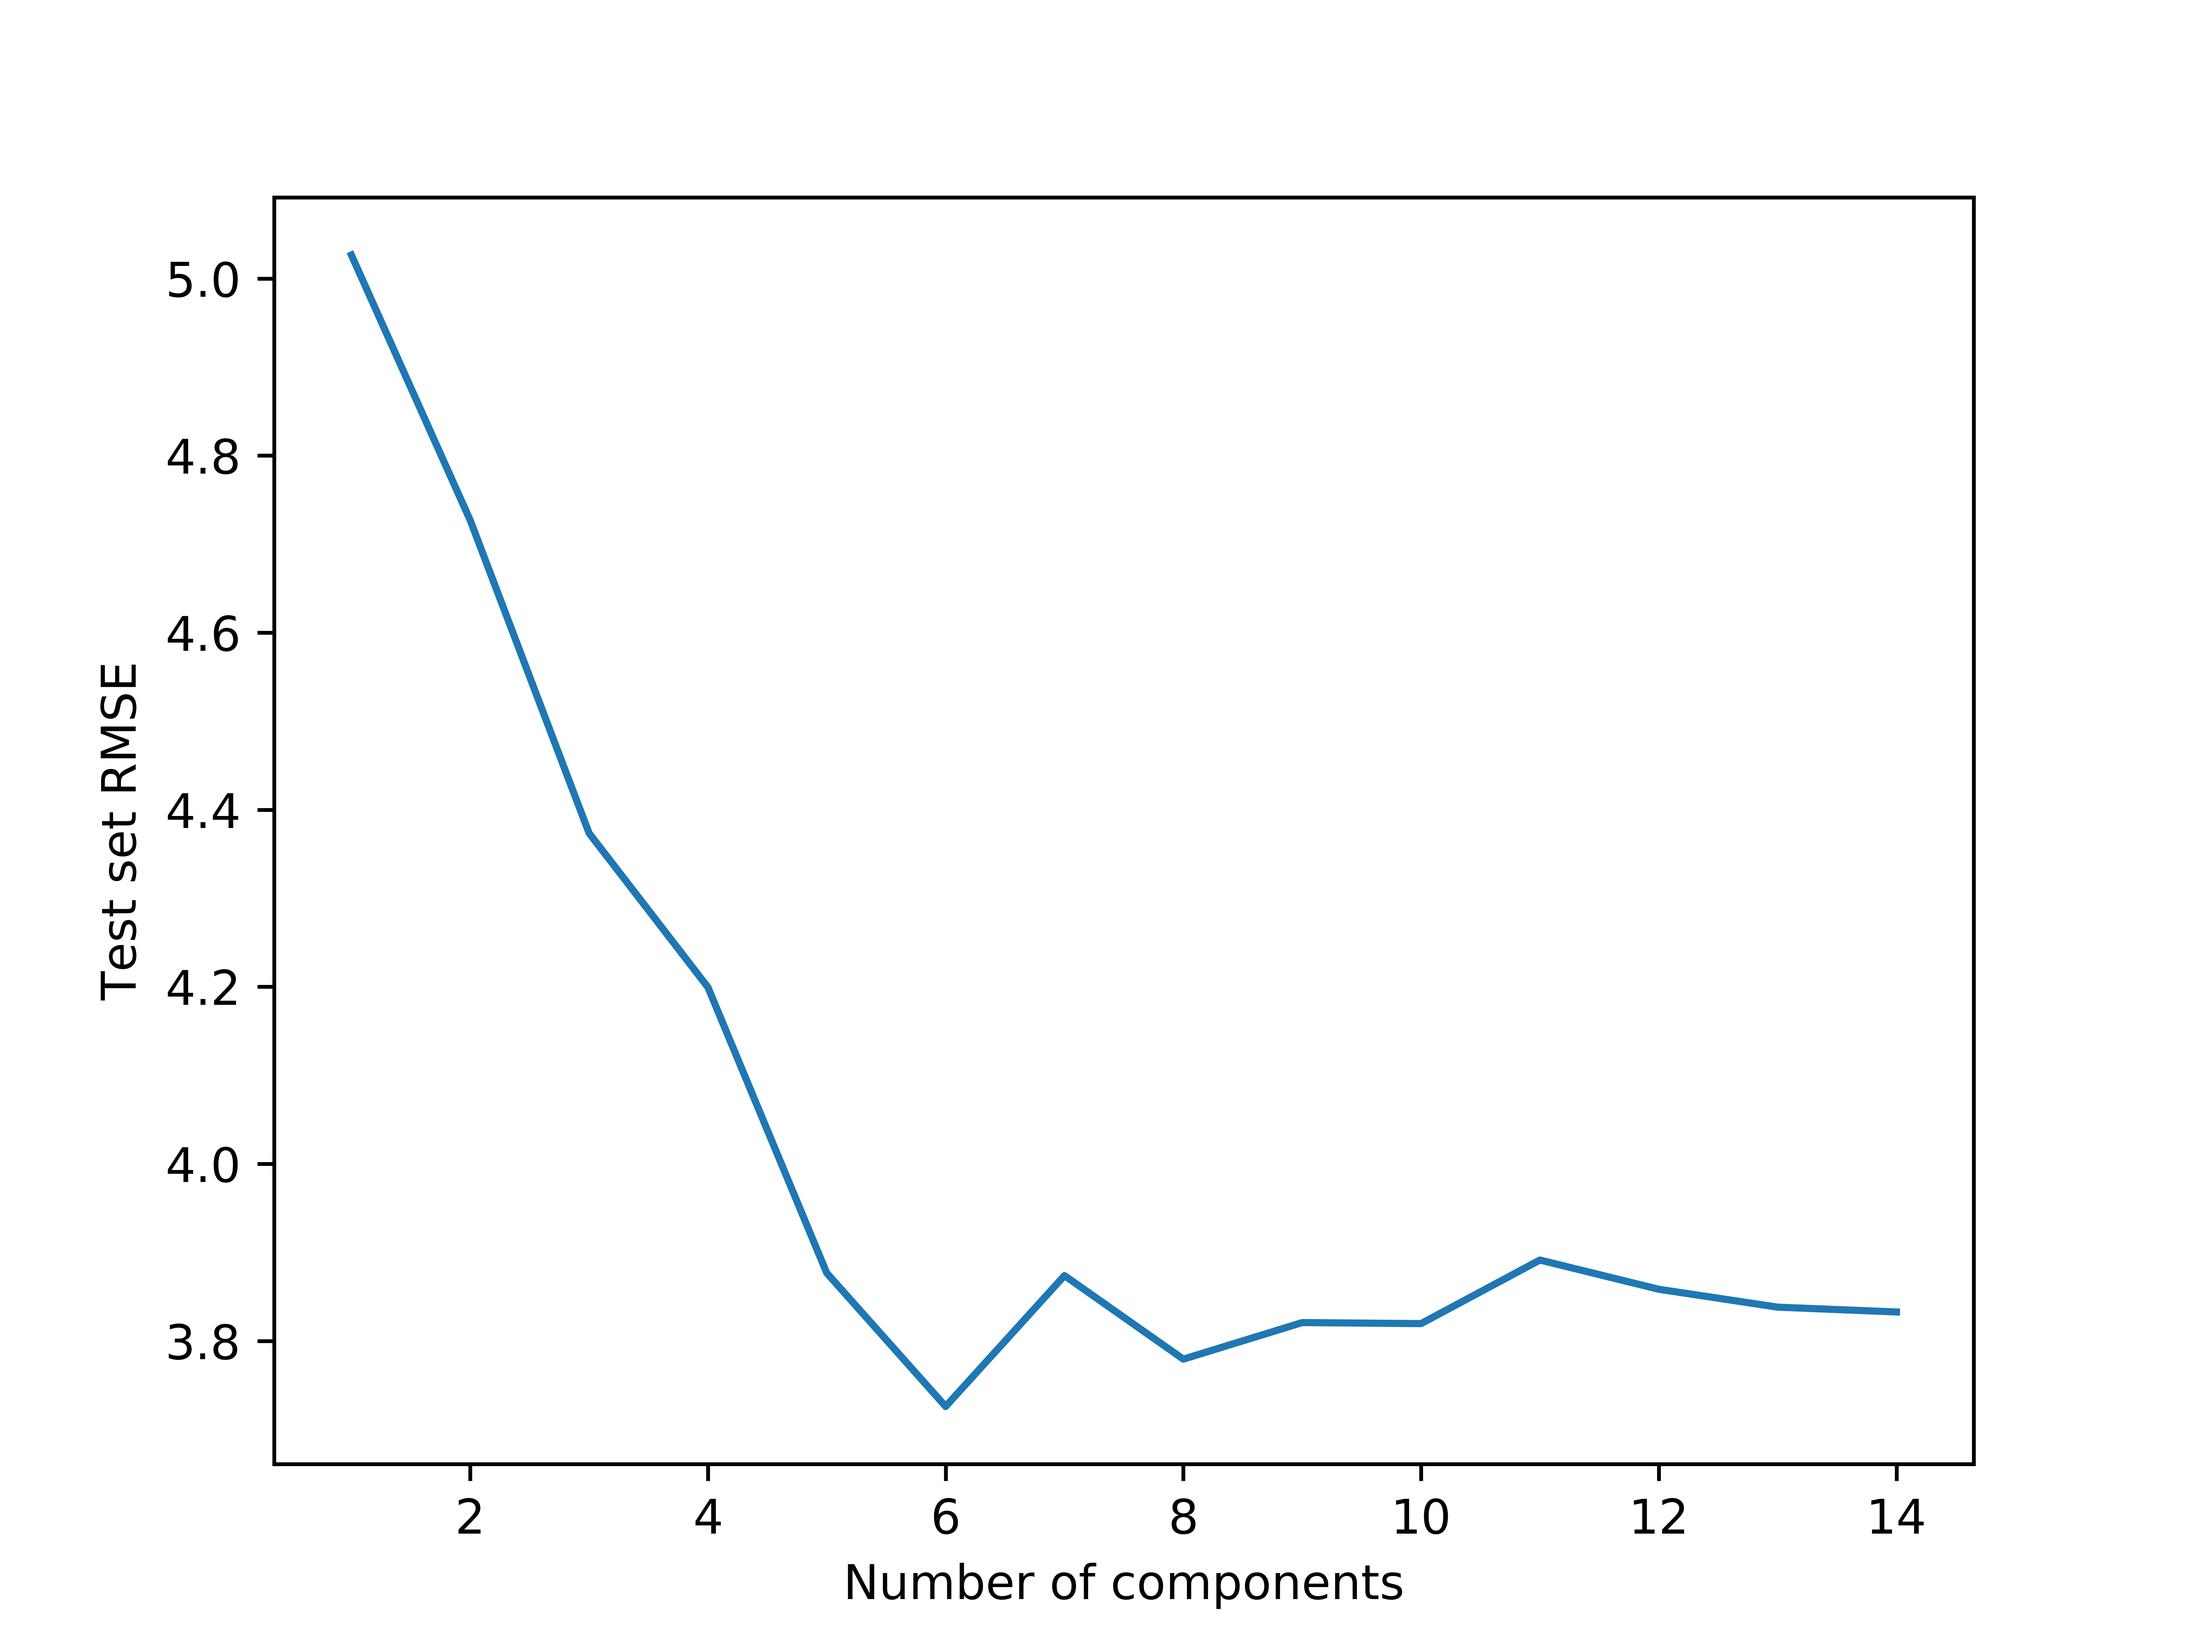
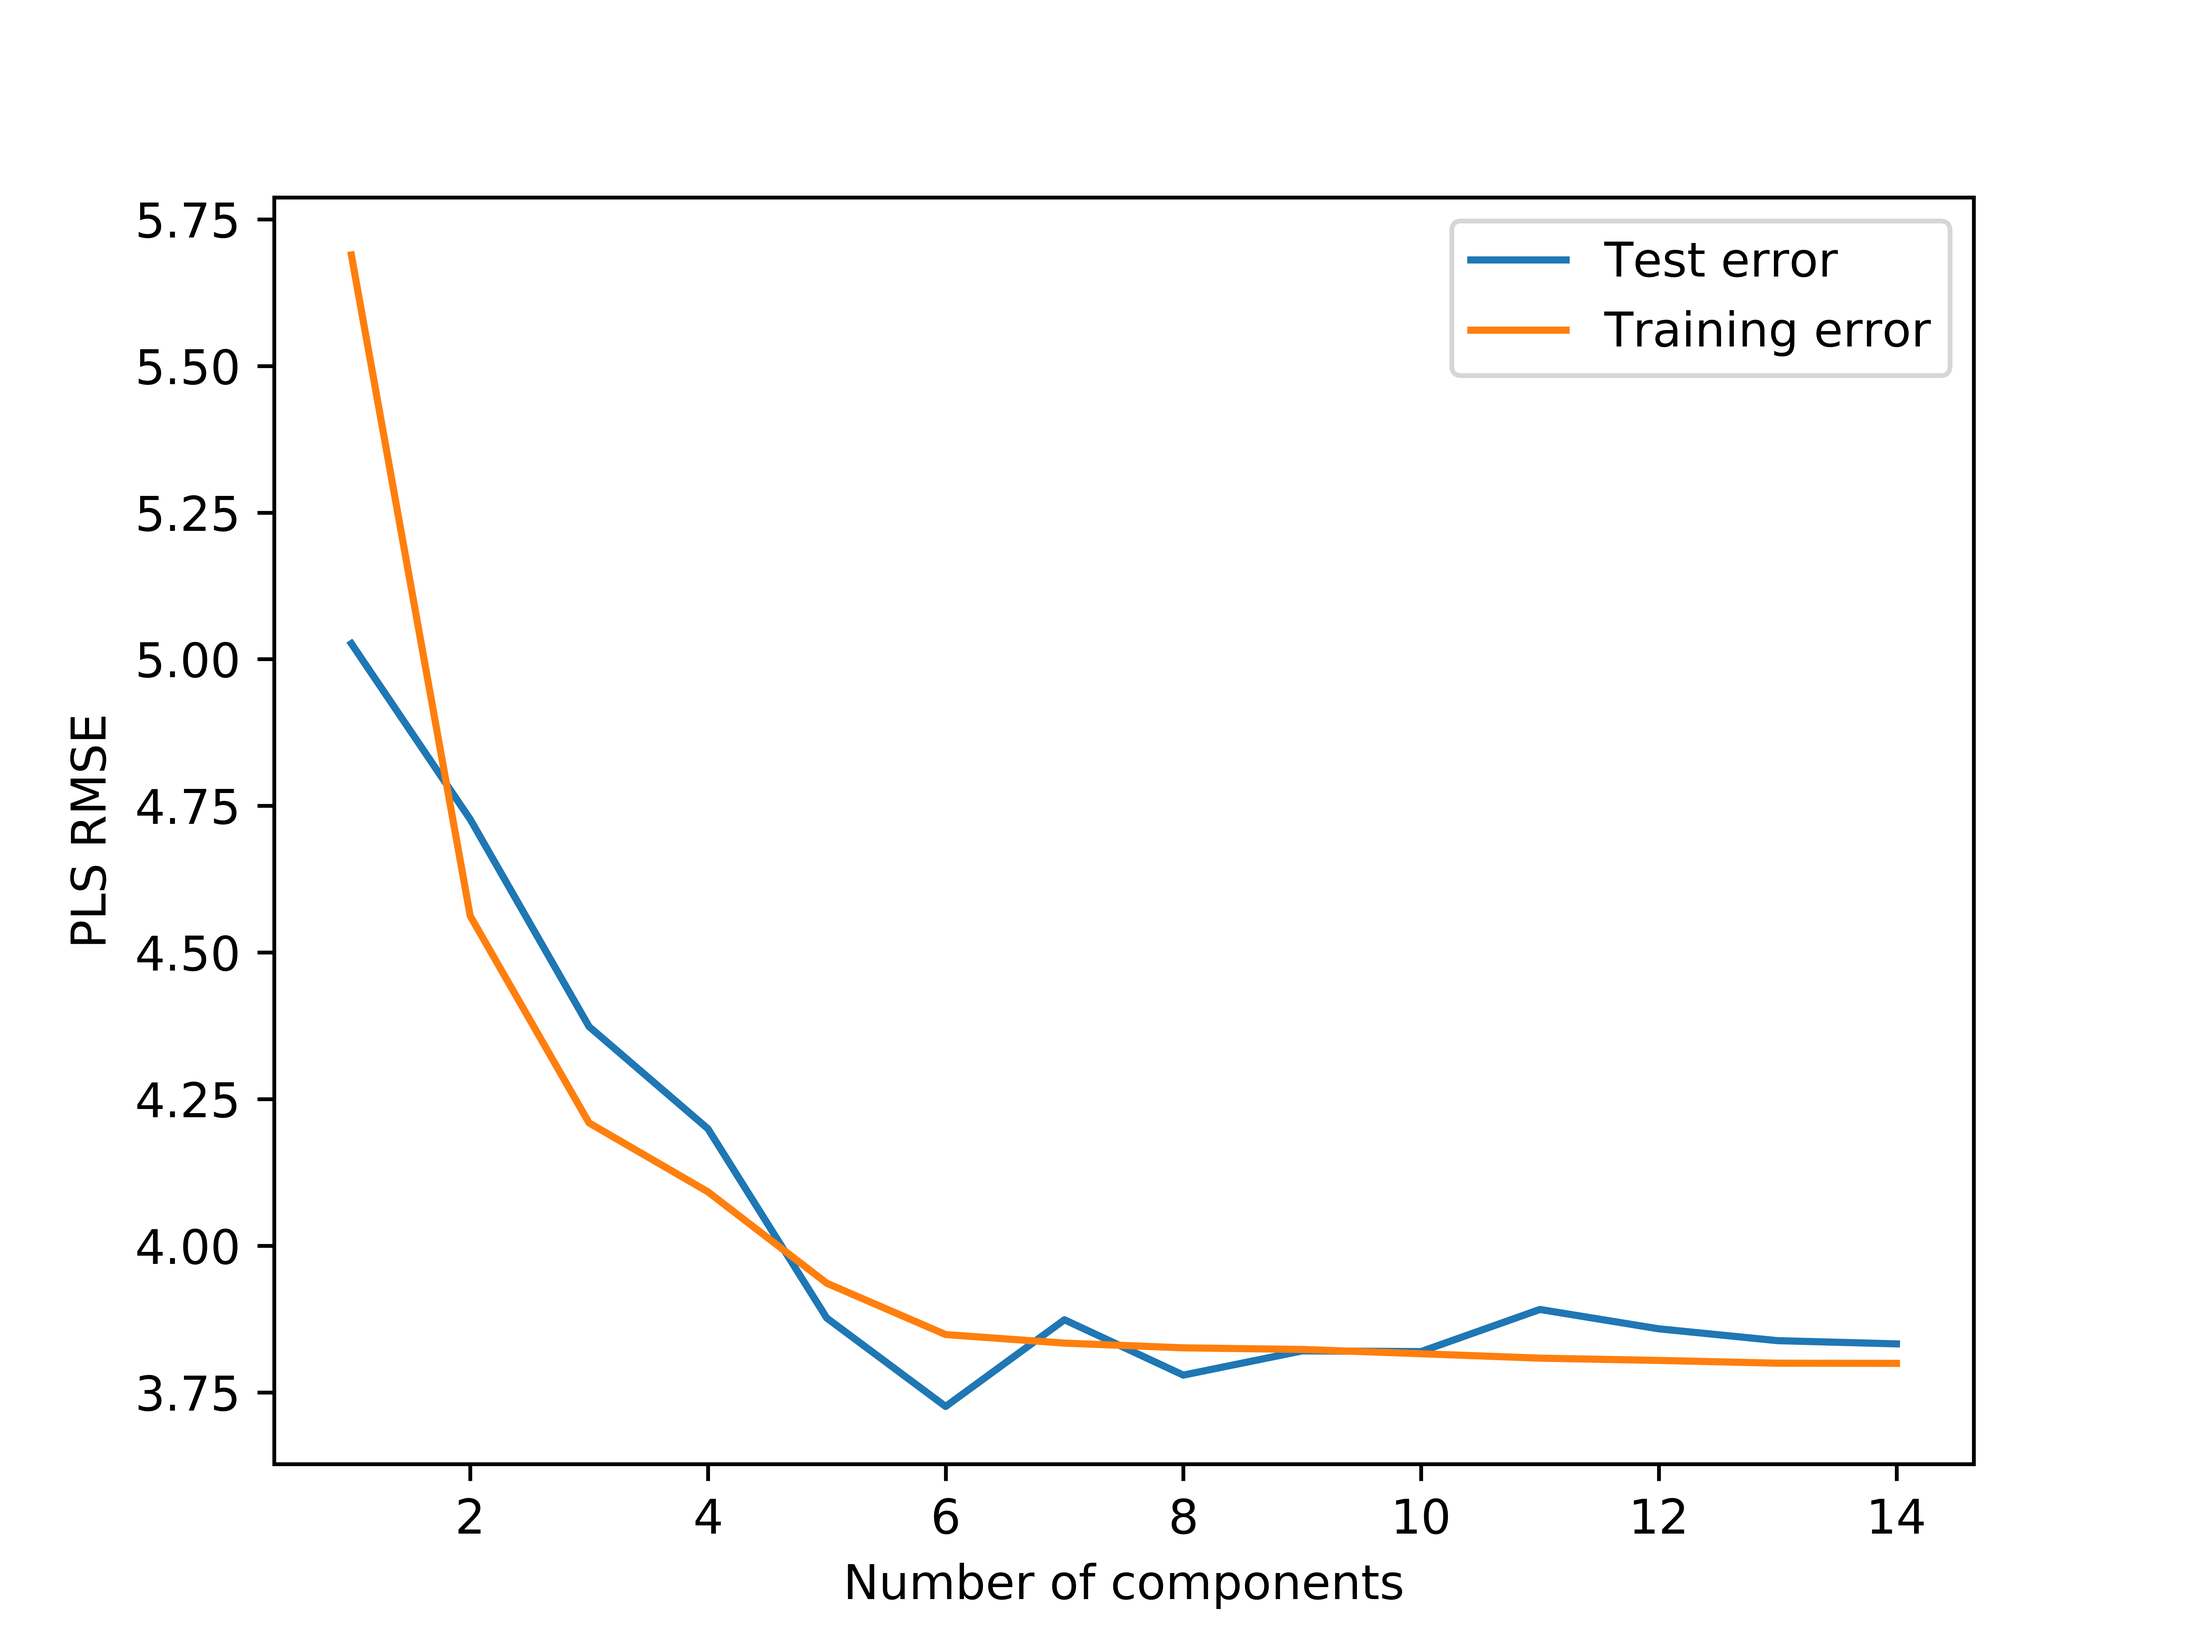
better training plots

diff --git a/ne579/Homework/hw05/hw05.py b/ne579/Homework/hw05/hw05.py
@@ -34,12 +34,15 @@ for i in range(1, x.shape[1]):
 pls_models = [PLSRegression(n_components=i).fit(xtr, ytr) for i in range(1, x.shape[1]+1)]
 # map(lambda m: m.fit(xtr, ytr), pls_models)
 
-es = [rmse(yts, m.predict(xts)) for m in pls_models]
+ets = [rmse(yts, m.predict(xts)) for m in pls_models]
+etr = [rmse(ytr, m.predict(xtr)) for m in pls_models]
 
 f = plt.figure()
-plt.plot(range(1, x.shape[1]+1), es)
+plt.plot(range(1, x.shape[1]+1), ets, label="Test error")
+plt.plot(range(1, x.shape[1]+1), etr, label="Training error")
 plt.xlabel("Number of components")
-plt.ylabel("Test set RMSE")
+plt.ylabel("PLS RMSE")
+plt.legend(loc="upper right")
 plt.savefig("images/rmse_vs_number_components.png", dpi=1000)
 plt.show()
 
@@ -52,12 +55,15 @@ def PCR(n_features):
     return pcr
 
 pcr_models = [PCR(i).fit(xtr, ytr) for i in range(1, x.shape[1]+1)]
-es = [rmse(yts, m.predict(xts)) for m in pcr_models]
+ets = [rmse(yts, m.predict(xts)) for m in pcr_models]
+etr = [rmse(ytr, m.predict(xtr)) for m in pcr_models]
 
 f = plt.figure()
-plt.plot(range(1, x.shape[1]+1), es)
+plt.plot(range(1, x.shape[1]+1), ets, label="Test error")
+plt.plot(range(1, x.shape[1]+1), etr, label="Training error")
 plt.xlabel("Number of PCA loadings")
 plt.ylabel("PCR RMSE")
+plt.legend(loc="upper right")
 plt.savefig("images/rmse_vs_pca_loadings.png", dpi=1000)
 plt.show()
 
